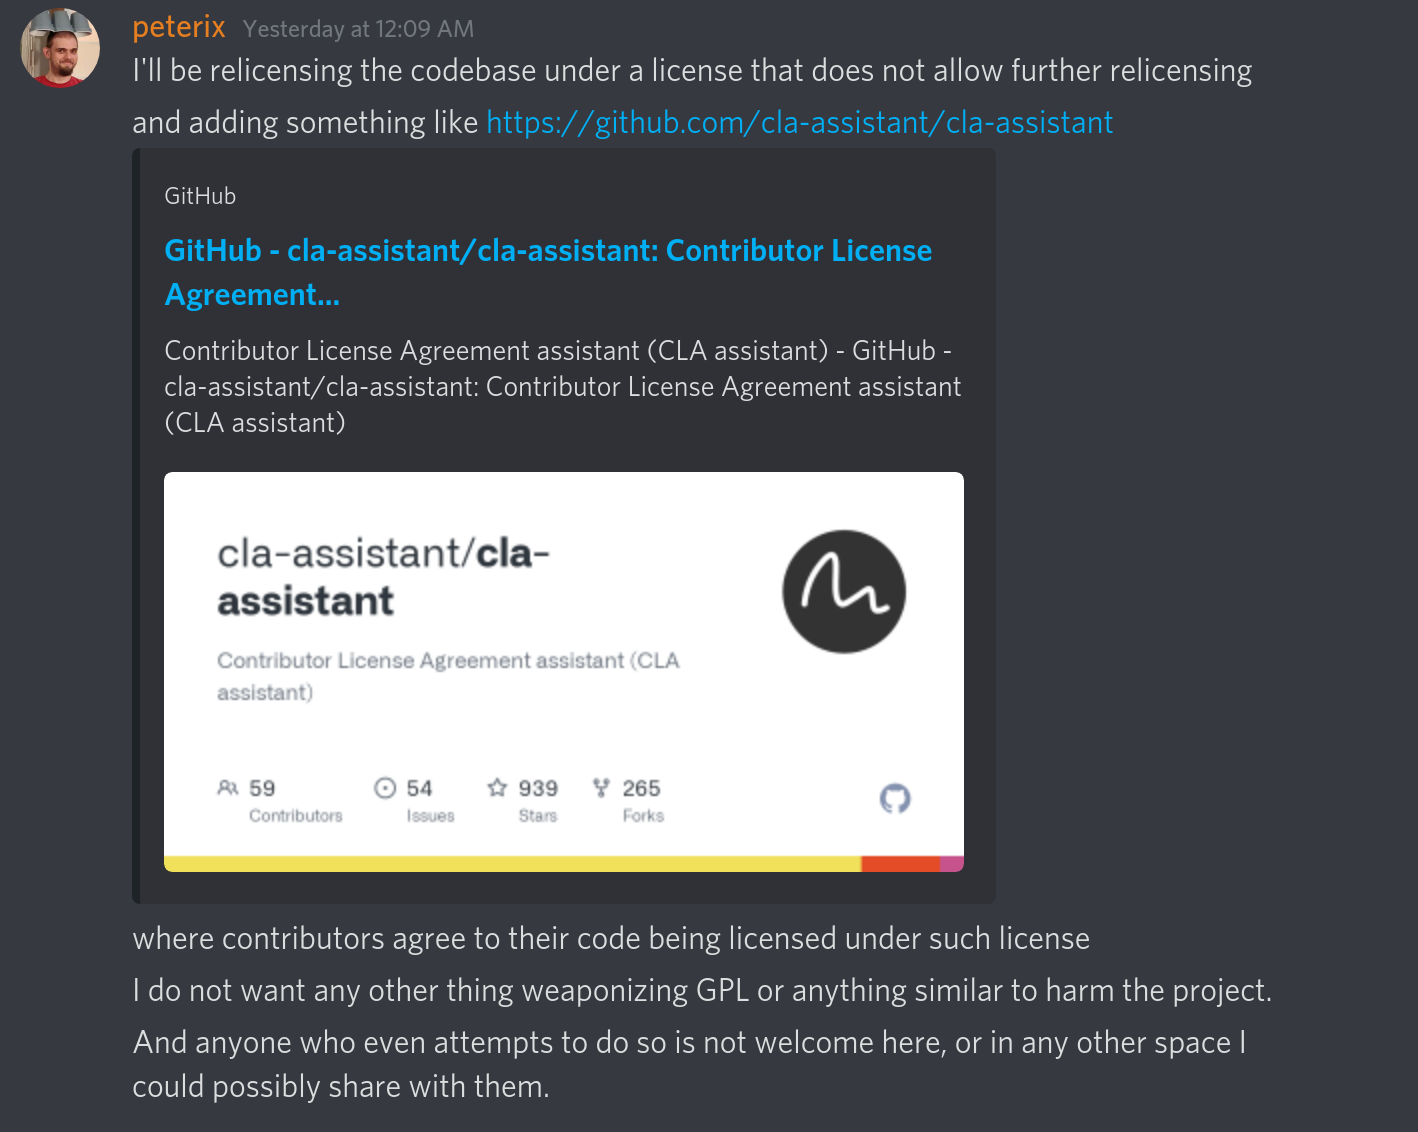
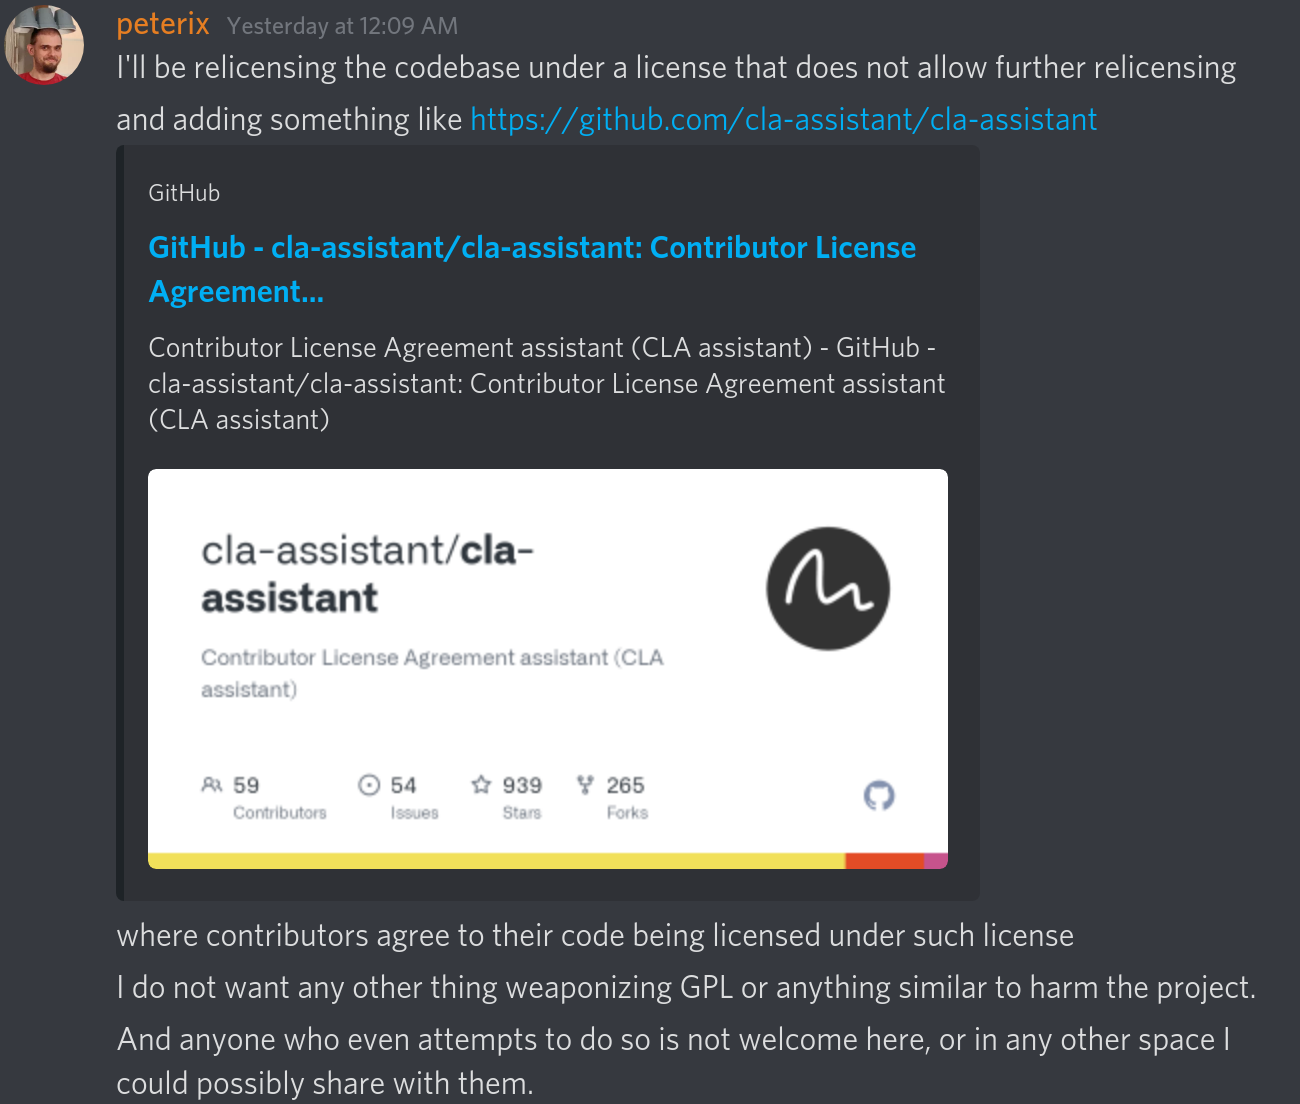
fix: crop images for "Moving on" blogpost

diff --git a/src/news/moving-on.md b/src/news/moving-on.md
@@ -21,14 +21,14 @@ In an effort to prepare for our upcoming 1.1.0 release, we wanted to contact the
 Sadly our request was dismissed and one of our team members was banned from the official MultiMC Discord server for being associated with PolyMC.
 
 <div class="center">
-    <img alt="Screenshot of public chat with MultiMC maintainer" src="/assets/img/news/moving-on/discord.png" class="img-constrained">
+    <img alt="Screenshot of public chat with MultiMC maintainer" src="/assets/img/news/moving-on/discord.png" style="width: 40em">
 </div>
 
 This has sparked many internal discussions both at PolyMC as well as MultiMC.
 As MultiMC will be introducing a [contributor license agreement (CLA)][cla] we have decided that we have to move on from our origins as a MultiMC fork.
 
 <div class="center">
-    <img alt="Screenshot of CLA announcement by MultiMC maintainer" src="/assets/img/news/moving-on/discord-cla.png" class="img-constrained">
+    <img alt="Screenshot of CLA announcement by MultiMC maintainer" src="/assets/img/news/moving-on/discord-cla.png" style="width: 40em">
 </div>
 
 Once this CLA is in place we won't be able to take code from MultiMC anymore, which is why we also won't associate with it anymore.
